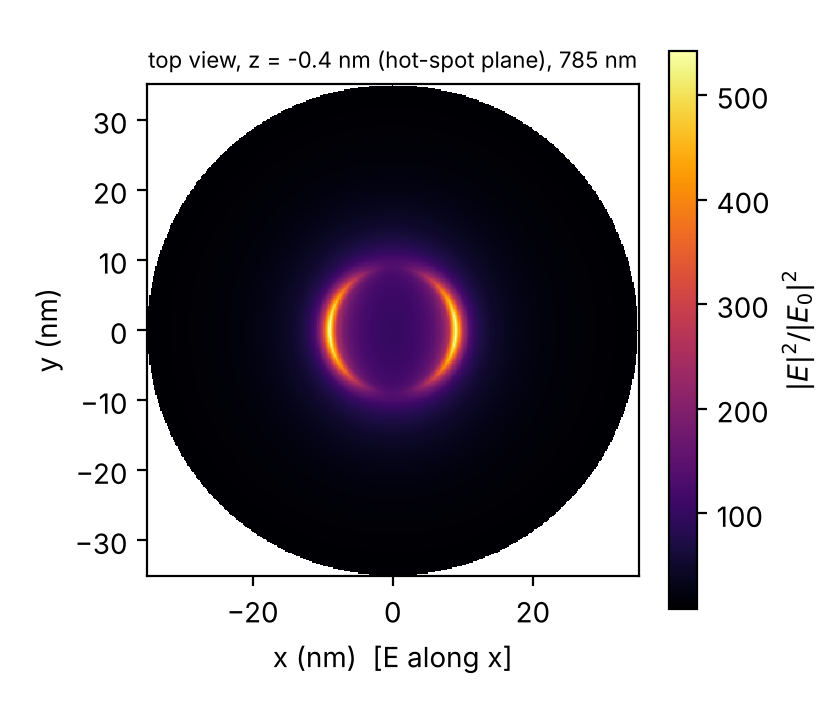
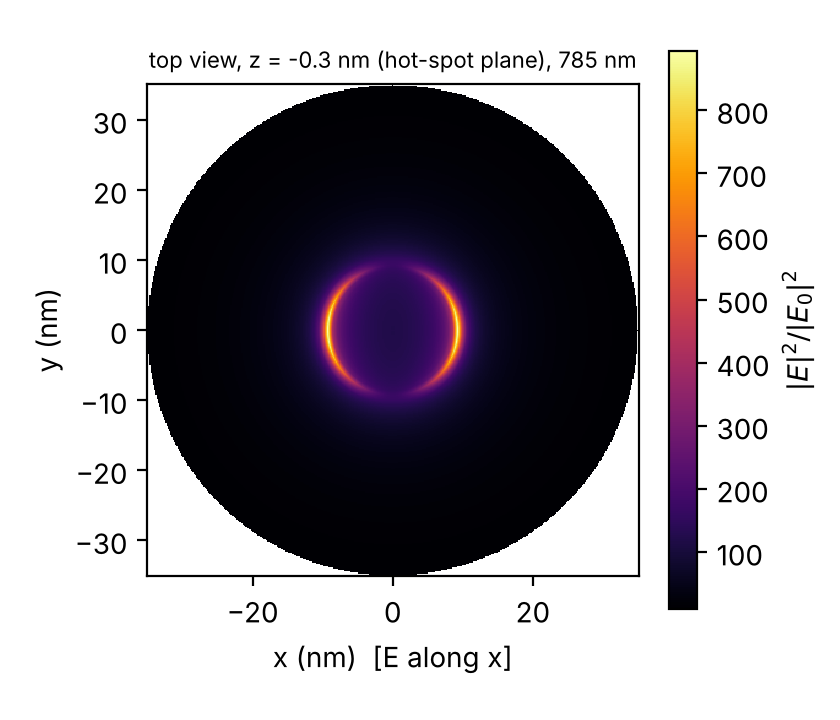
Bowl R = 10 nm on the 0.67 nm grid: resonance 720 nm (710 nm on 1 nm); 10 nm-gap particle-in-pore [skip ci]
Claude-Session: https://claude.ai/code/session_01EaeWy6cV2NiDt1WejxVkmr

diff --git a/nanopore_meep/email_draft_to_Huang.md b/nanopore_meep/email_draft_to_Huang.md
@@ -9,7 +9,7 @@ Thank you for suggesting the bowl-shaped nanopore. I have simulated it, together
 2. Bowl-shaped nanopore (Nano Lett. 2023, geometry of Fig. S2/Table S1, Rakic gold refitted with a stable 3-pole model, water 1.33, SiN 2.0, plane wave from the Au side). Because the structure is axisymmetric, I solve it exactly in cylindrical coordinates (m = +1 and its mirror image for linear polarisation), which allows 0.5-1 nm grids.
    - The bowl pore gives a single hot spot at the pore rim, about 25 times stronger at 785 nm than a conventional cylindrical pore with the same 5 nm Au edge (Fig. S3/S4).
    - The conventional pore agrees well with Fig. S4: resonance at 640 nm and |E|^2/|E0|^2 of about 10 for R = 2.5 nm; 880 nm (vs 840 nm) for R = 10 nm.
-   - For the bowl with R = 10 nm and h3 = 5 nm I find the resonance at 710 nm instead of 785 nm. The resonance is very sensitive to the Au thickness at the rim: it moves from 650 nm (h3 = 10 nm) to 800 nm (h3 = 2.5 nm), so with h3 of about 3 nm, within the 2.5-10 nm range of Table S1, it falls at 785 nm. A 40 nm pore with h3 = 5 nm resonates at 750 nm.
+   - For the bowl with R = 10 nm and h3 = 5 nm I find the resonance at 710-720 nm (1 and 0.67 nm grids) instead of 785 nm. The resonance is very sensitive to the Au thickness at the rim: it moves from 650 nm (h3 = 10 nm) to 800 nm (h3 = 2.5 nm), so with h3 of about 3 nm, within the 2.5-10 nm range of Table S1, it falls at 785 nm. A 40 nm pore with h3 = 5 nm resonates at 750 nm.
    - The resonance position is mesh-converged, but the peak intensity at the sharp 90-degree rim is not (it keeps rising with refinement), so I would round the rim edge (e.g. 1 nm radius) before quoting absolute enhancement values.
 
 3. Particle in the 200 nm Au nanohole (Nat. Commun. 2019), 50 nm Au sphere at 5 nm from the wall, 785 nm, full 3D.
